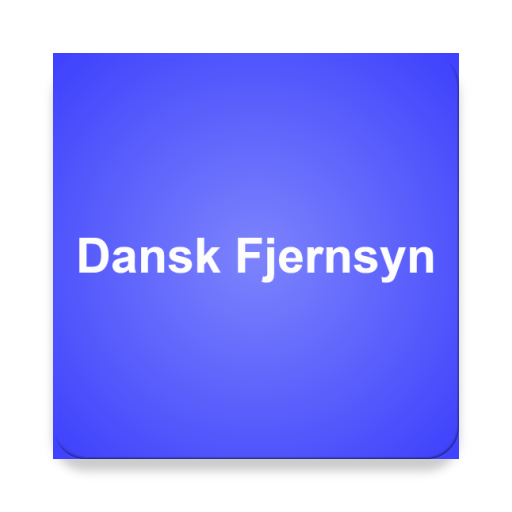
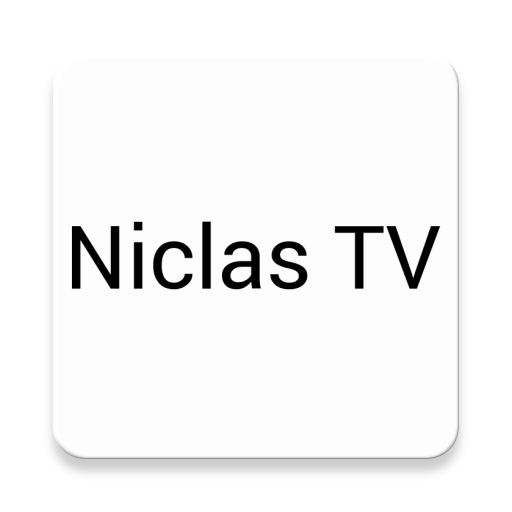
Niclas' app udgivet

diff --git a/app/src/main/java/dk/dk/niclas/NiclasHovedAkt.java b/app/src/main/java/dk/dk/niclas/NiclasHovedAkt.java
@@ -118,7 +118,8 @@ public class NiclasHovedAkt extends AppCompatActivity {
         setSupportActionBar(toolbar);
 
         ActionBar actionBar = getSupportActionBar();
-        actionBar.setHomeAsUpIndicator(R.drawable.ic_action_venstremenu);
+        //actionBar.setHomeAsUpIndicator(R.drawable.ic_action_venstremenu);
+        actionBar.setHomeAsUpIndicator(R.drawable.appikon);
         actionBar.setDisplayHomeAsUpEnabled(true);
 
         mDrawerLayout = (DrawerLayout) findViewById(R.id.drawer_layout);
